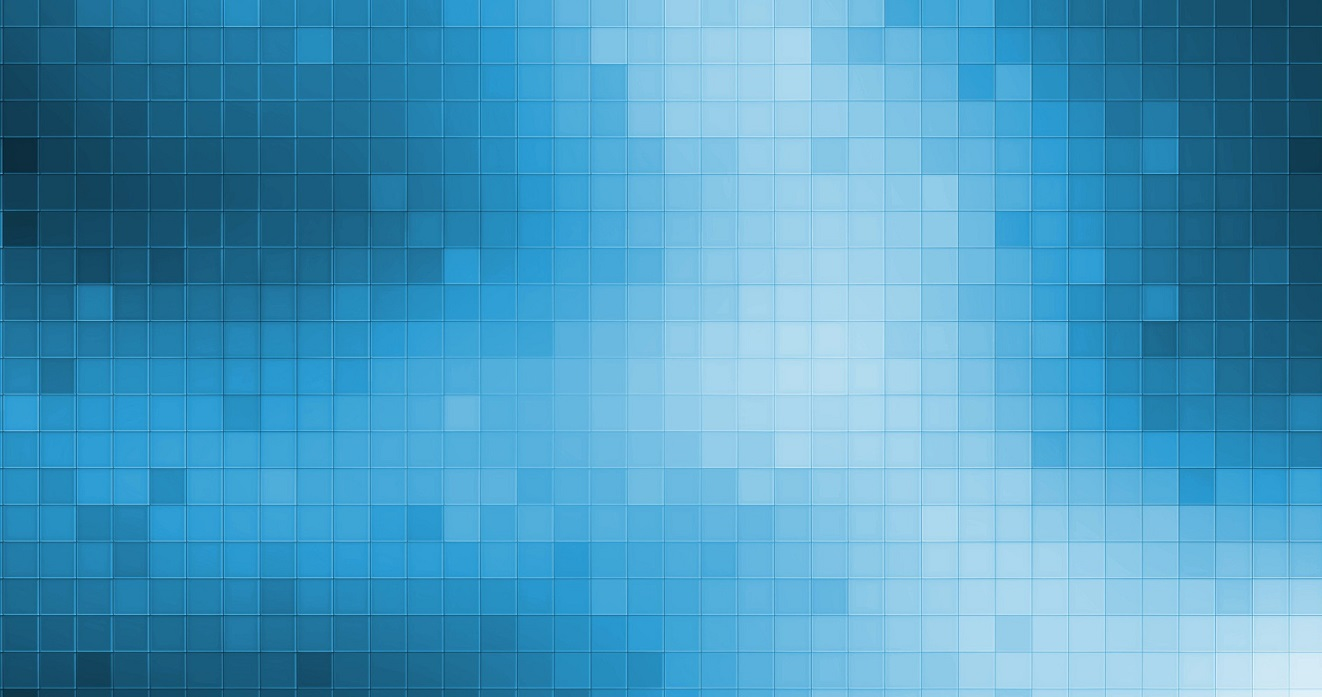
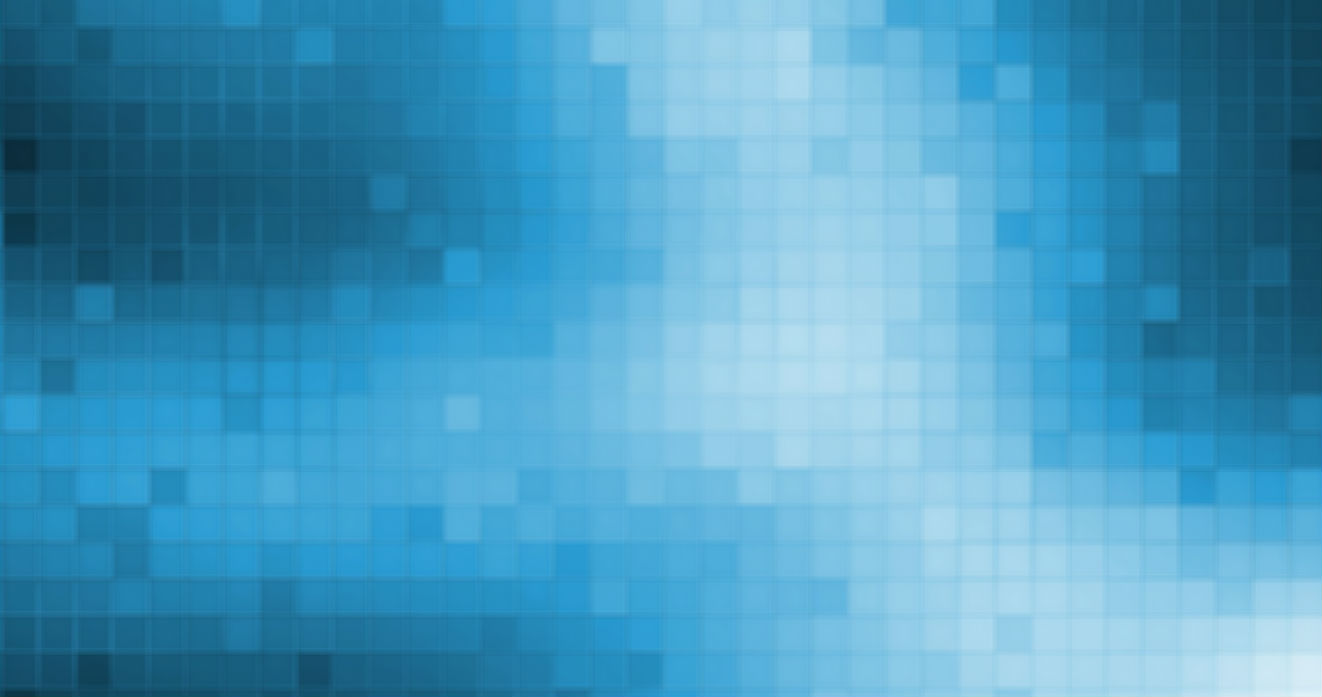
blurred jumbotron bg

diff --git a/WebContent/css/custom.css b/WebContent/css/custom.css
@@ -12,7 +12,7 @@ body {
     background-image: linear-gradient(to bottom,#5bc0de 0,#2aabd2 100%);
     background-repeat: repeat-x;
     border-color: #28a4c9;
-    text-shadow: 0 -1px 0 rgba(0,0,0,.2);
+    text-shadow: 2px 2px 5px black;
     color: #fff;
 
     background-image: url("../img/lightbluetile.jpg");
